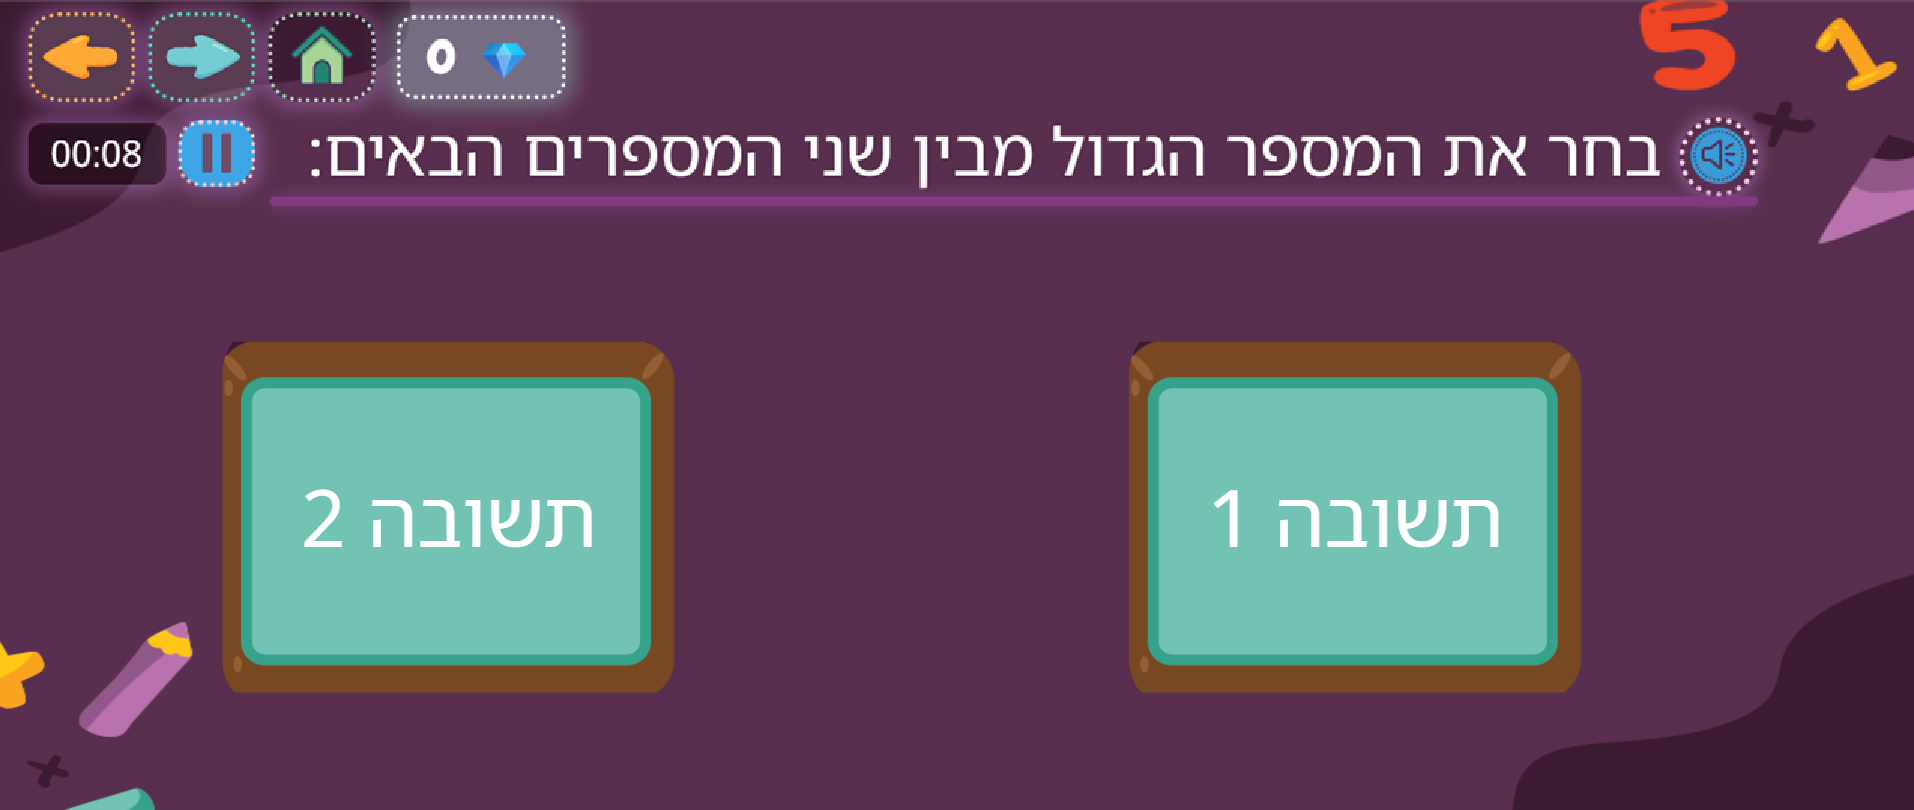
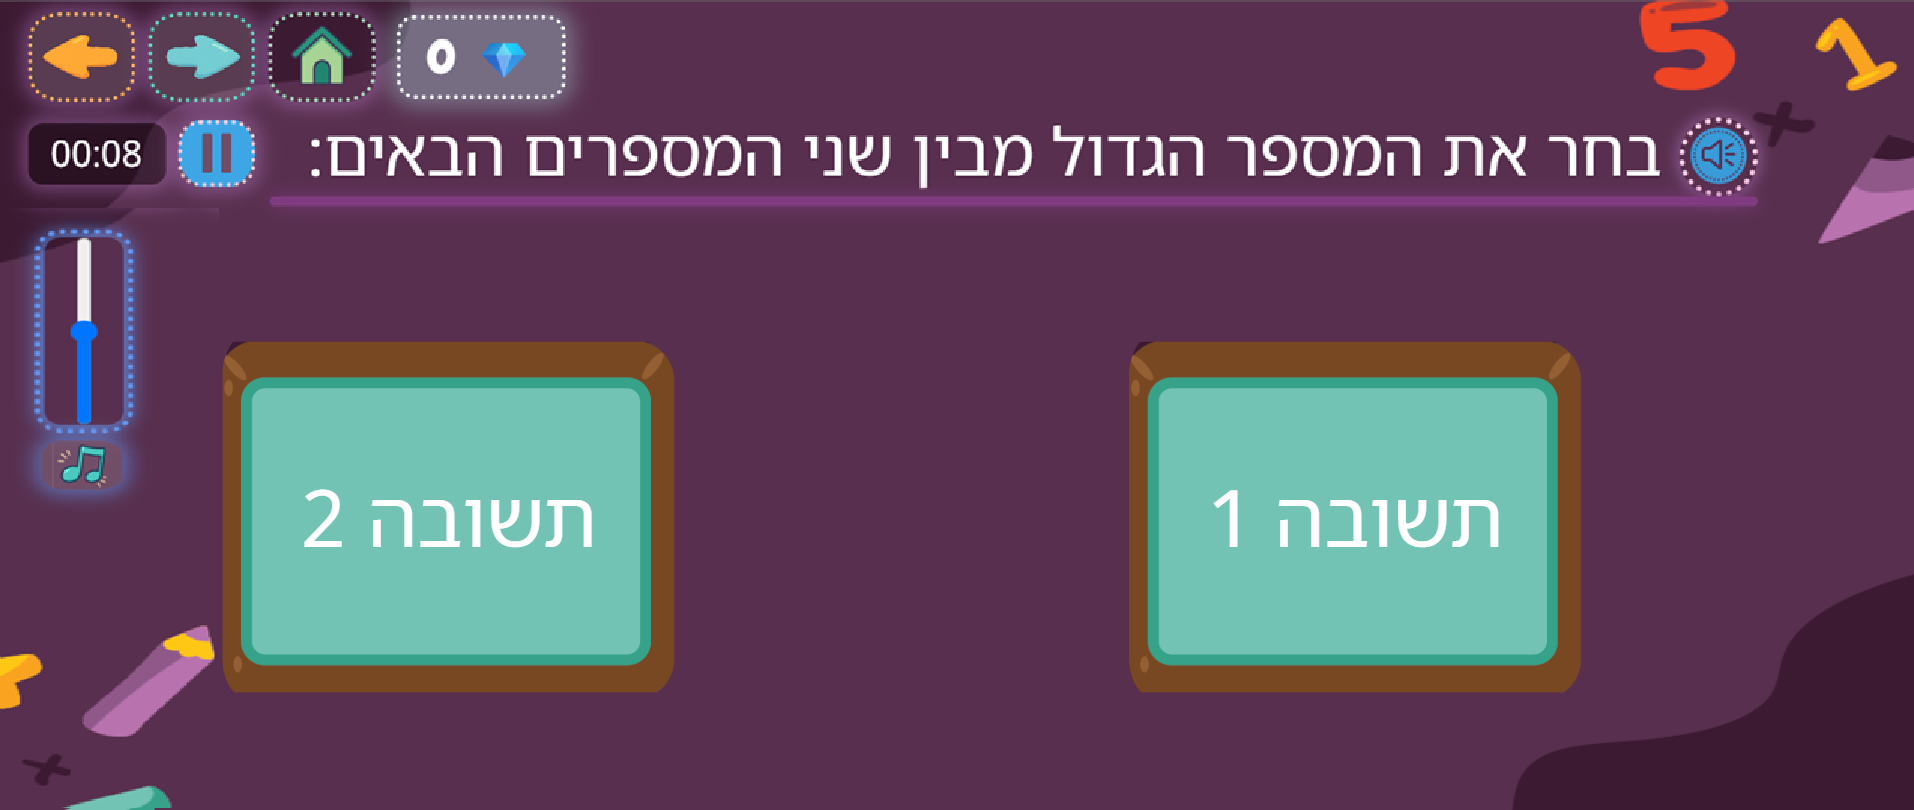
just need to implement all the audio instructions

Changed region(s): [[0.0, 0.2778, 0.0925, 0.6173], [0.0, 0.7716, 0.1233, 0.9259], [0.0308, 0.9568, 0.0925, 1.0]]

diff --git a/index.html b/index.html
@@ -58,7 +58,7 @@
 			</section>
 
 			<!-- Slide 2 index=1-->
-			<section class="Slide2">
+			<section class="Slide2" >
 				<div class="header delayed-p" style="width: 80%; display: flex; justify-content: center; margin-bottom: 30px; ">
 					<div onclick="playAudio('audio0')" class="audio-border" style="margin-left: 20px;">
 						<img src="Math-Project/audio-inst.png" class="audio-icon">
@@ -66,7 +66,7 @@
 
 
 					<div style="display: flex; align-items: center; gap: 50px; direction: rtl;">
-						<h3 class="glow-underline delayed-p" style="font-size: 70px; margin: 0; text-align: center;">
+						<h3 class="glow-underline delayed-p" style="font-size: 70px; font-family:'Chewy'; font-weight:bold; margin: 0; text-align: center;">
 							הוראות המשחק
 						</h3>
 					</div>
@@ -74,7 +74,7 @@
 				<audio id="audio0" src="Math-Project/audio-instrcts/game-inst.m4a"></audio>
 
 				<!-- Slide2 fragments-->
-				<ul class="delayed-p" style="text-align:right; animation-delay:2s;">
+				<ul class="delayed-p" style="text-align:right; animation-delay:2s;  line-height:1.5px;">
 					<li>
 						<div class="instruction-wrapper">
 							<div class="audio-border" onclick="playAudio('audio1')">
@@ -102,7 +102,7 @@
 					<!-- linked to slide3: index=2-->
 					<a onclick="playTapAndGo(2)"
 					   id="delayed-fragment"
-					   style=" display: flex; margin-top: 150px; margin-right: 250px; width: 400px; justify-content: center; text-align: center; cursor: pointer; ">
+					   style=" display: flex; margin-top: 100px; margin-right: 200px; width: 400px; justify-content: center; text-align: center; cursor: pointer; ">
 						לחץ כּאן כּדי להמשיך
 					</a>
 				</div>
@@ -1519,34 +1519,50 @@
 				</div>
 
 				<!-- Game Explanation -->
-				<div style="margin-top: 60px; font-size: 36px; color: white; font-weight: bold; text-align: right; margin-right: -30%; width:140%;">
-					◆  כאשר המשחק מתחיל: יוצג כפתור "הפסק" כדי לעצור את הטיימר
+				<div style="margin-top: 40px; font-size: 36px; color: white; font-weight: bold; text-align: right; margin-right: -30%; width:140%;">
+					<span style="color: limegreen; font-size: 40px; font-weight: bold; text-shadow: 0 0 8px rgba(50, 205, 50, 0.8), 0 0 14px rgba(0, 255, 0, 0.6);">◆ </span>
+					כאשר המשחק מתחיל: יוצג כפתור "הפסק" כדי לעצור את הטיימר
 				</div>
 
 				<!-- Timer Preview with Arrow -->
 				<div>
 					<div style="position: relative; height: 200px; margin-top: 20px;">
 						<img src="Math-Project/pointy-arrow-green.png" alt="arrow" style="position: absolute; top: -60%; left: 0%; height: 130px;  width:auto; transform: rotate(-120deg); z-index: 1;" />
-						<img src="Math-Project/timer-prev.png" alt="timer preview" style="position: absolute; top: -85%; left: -30%; height: 70px; border: 4px solid orange; border-radius: 4px; padding: 1px; box-shadow: 0 0 15px rgba(0,0,0,0.3);" />
+						<img src="Math-Project/timer-prev.png" alt="timer preview" style="position: absolute; top: -85%; left: -30%; height: 70px; border: 4px solid orange; border-radius: 4px; padding: 1px; box-shadow: 0 0 8px rgba(255, 165, 0, 0.8), 0 0 14px rgba(255, 140, 0, 0.9); " />
 					</div>
 				</div>
 
 				<div style="margin-top: -120px; font-size: 36px; font-weight: bold; color: white; text-align: right; margin-right: -30%; width: 140%;">
-					◆ ברגע שתלחץ על הכפתור, המשחק יתחיל וטיימר יופיע למעלה בצד ימין
+					<span style="color: orange; font-size: 40px; font-weight: bold; text-shadow: 0 0 8px rgba(255, 165, 0, 0.8),  0 0 14px rgba(255, 140, 0, 0.9);">◆ </span>
+					ברגע שתלחץ על הכפתור, המשחק יתחיל וטיימר יופיע למעלה בצד ימין
 				</div>
 
 				<!-- Pause Button Preview with Arrow -->
 				<div>
 					<div style="position: relative; height: 200px; margin-top: 20px;">
-						<img src="Math-Project/pointy-arrow.png" alt="arrow" style="position: absolute; top: -85%; left: -20%; height: 290px; transform: rotate(-115deg); z-index: 1;" />
-						<img src="Math-Project/pause-btn1.png" alt="pause button" style="position: absolute; top: -153%; left: -10%; height: 70px; border: 4px solid limegreen; border-radius:4px; padding:1px; box-shadow: 0 0 15px rgba(0,0,0,0.3);" />
+						<img src="Math-Project/pointy-arrow.png" alt="arrow" style="position: absolute; top: -85%; left: -15%; height: 290px; transform: rotate(-115deg); z-index: 1;" />
+						<img src="Math-Project/pause-btn1.png" alt="pause button" style="position: absolute; top: -155%; left: -10%; height: 70px; border: 4px solid limegreen; border-radius: 4px; padding: 1px; box-shadow: 0 0 8px rgba(50, 205, 50, 0.8), 0 0 14px rgba(0, 255, 0, 0.6)" />
+					</div>
+				</div>
+
+				<!-- music slider: -->
+				<div style="margin-top: -120px; font-size: 36px; font-weight: bold; color: white; text-align: right; margin-right: -30%; width: 140%;">
+					<span style="color:cornflowerblue; font-size:40px; font-weight:bold; text-shadow: 0 0 8px rgba(100, 149, 237, 0.8), 0 0 14px rgba(100, 149, 237, 0.9);">◆</span> 
+					בנוסף תופעל מוזיקה ויוצג כפתור להגברת ולהנמכת הקול 
+				</div>
+
+				<!-- volume slider Preview with Arrow -->
+				<div>
+					<div style="position: relative; height: 200px; margin-top: 20px; text-shadow: 0 0 8px rgba(100, 149, 237, 0.8), 0 0 14px rgba(100, 149, 237, 0.9);">
+						<img src="Math-Project/pointy-arrow-blue.png" alt="arrow" style="position: absolute; top: -65%; left: -15%; height: 290px; transform: rotate(-20deg); z-index: 1;" />
+						<img src="Math-Project/music-slider.png" alt="pause button" style="z-index: 2; position: absolute; top: -145%; left: -30%; height: 270px; width: 120px; border: 4px solid; border-color: cornflowerblue; border-radius: 4px; padding: 1px; box-shadow: 0 0 8px rgba(100, 149, 237, 0.8), 0 0 14px rgba(100, 149, 237, 0.9); " />
 					</div>
 				</div>
 
 				<!-- Start Game Button -->
-				<div style="margin-top: -100px;">
-					<a class="special-button" onclick="playTapAndGo(27)"
-					   style=" color: whitesmoke; font-weight: bold; background: linear-gradient(135deg, #FAD2CF, #F9AFAE); box-shadow: 0 0 20px rgba(255, 170, 170, 0.5), 0 0 40px rgba(255, 140, 180, 0.4); ">
+				<div style="margin-top: -150px;">
+					<a class="special-button" onclick="playTapAndGo(28)"
+					   style=" color: whitesmoke; font-weight: bold; background: linear-gradient(135deg, #A9C9C9, #7FBFBF); box-shadow: 0 0 20px rgba(95, 158, 160, 0.5), 0 0 40px rgba(95, 158, 160, 0.4); ">
 						להתחיל את המשחק<br>לחץ כאן
 					</a>
 				</div>
@@ -1555,22 +1571,26 @@
 
 
 			<!-- start of the game, using shuffle between slides. number of questions=13-->
-			<section dir="rtl" style="padding: 30px; font-family: 'chewy', Arial; background-color: rgba(30, 30, 30, 0.4); backdrop-filter: blur(12px); -webkit-backdrop-filter: blur(12px); text-align: center; ">
+			<section dir="rtl" style="padding: 20px; font-family: 'chewy', Arial; background-color: rgba(30, 30, 30, 0.4); backdrop-filter: blur(12px); -webkit-backdrop-filter: blur(12px); text-align: center; ">
 
 				<!-- Reminder Message -->
-				<div style="background-color: cadetblue; color: white; font-size: 40px; font-weight: bold; padding: 25px 40px; border-radius: 25px; border: 16px solid #5b3e1b; width: fit-content; margin: auto; box-shadow: 0 0 25px rgba(0,0,0,0.3);">
+				<div style="background-color: cadetblue; color: white; font-size: 40px; font-weight: bold; padding: 20px 40px; border-radius: 25px; border: 16px solid #5b3e1b; width: fit-content; margin: auto; box-shadow: 0 0 25px rgba(0,0,0,0.3);">
 					מה יהיה  במשחק?
 				</div>
 				<!-- Instructional Note -->
-				<div style="margin-top: 10x; font-size: 28px; color: whitesmoke; font-weight: bold; max-width: 800px; margin-inline: auto; line-height: 1.6;">
+				<div style="margin-top: 10px; font-size: 28px; color: whitesmoke; font-weight: bold; max-width: 800px; margin-inline: auto; line-height: 1.2;">
 					<span style="color:goldenrod;">◆</span> במשחק יהיה שאלות כמו בהדרכה <span style="color:lightcoral; text-decoration:underline;">  אבל</span> הפעם לא יהיו הסברים   !<br>
 					<span style="color:goldenrod;">◆</span> על כל תשובה נכונה תקבל נקודות <span class="sparkle-gem" style="font-size:55px;">💎</span><br>
-					<span style="color:cadetblue; letter-spacing:1.2px; font-weight:bold; font-size:35px;"> בהצלחה!</span>
+				   <span style="color:cornflowerblue; font-size:40px; font-weight:bold; text-shadow: 0 0 8px rgba(100, 149, 237, 0.8), 0 0 14px rgba(100, 149, 237, 0.4);"> בהצלחה!</span>
 				</div>
 				<!-- Screenshot Preview -->
-				<div style="margin-top:10px; font-size:36px; ">
-					לדוגמה: <br />
-					<img src="Math-Project/quest-review.png" alt="reminder screenshot" style="max-width: 85%; border-radius: 20px; box-shadow: 0 0 25px rgba(0,0,0,0.3); border: 5px solid; border-color: yellowgreen; ">
+				<div style="position: relative; margin-top: 5px; font-size: 36px; display: inline-block;">
+
+					<!-- Label on top-right corner -->
+					<span style="position: absolute; top: 10px; right: -9%; background-color: rgb(204, 196, 130); box-shadow: 0 0 25px rgba(238, 232, 170, 0.6); padding: 5px 10px; border-radius: 8px; font-weight: bold; color: white; ">
+						לדוגמה:
+					</span>
+					<img src="Math-Project/quest-review.png" alt="reminder screenshot" style="max-width: 85%; border-radius: 20px; box-shadow: 0 0 25px rgba(0,0,0,0.3); border: 5px solid; border-color: palegoldenrod; ">
 				</div>
 
 
@@ -1581,11 +1601,11 @@
 				</div>
 				<div class="click-to-continue delayed-p"
 					 data-fragment-index="8"
-					 style="position: absolute; top: 12%; left: -20%; width: 140px; height: 140px; animation-delay: 1.9s;">
+					 style="position: absolute; top: 12%; left: -22%; width: 140px; height: 140px; animation-delay: 1.9s;">
 
-					<img src="Math-Project/pointy-arrow-green.png"
+					<img src="Math-Project/pointy-arrow-pink.png"
 						 alt="Arrow"
-						 style="width: 100%; height: 100%; transform: scaleX(-1) rotate(-70deg);">
+						 style="width: 100%; height: 100%; transform: scaleX(1) rotate(-20deg);">
 				</div>
 			</section>
 
@@ -2099,7 +2119,7 @@
 		<a onclick="goHome()" class="nav-arrow home-button hover-sound" id="home-btn"></a>
 		<a id="music-toggle"
 		   class="nav-arrow music-toggle"
-		   style="display: none; background-image: url('Math-Project/mute-music.png'); width: 10px; height: 10px;"
+		   style="display: none; background-image: url('Math-Project/unmute-music.png'); width: 10px; height: 10px;"
 		   title="השתק מוזיקה">
 		</a>
 		<!--slider element-->

diff --git a/main.js b/main.js
@@ -5,6 +5,8 @@ let correctStreak = 0;  //variable for streak points (3 or mores corrects answwe
 let musicPlaying = false;
 const bgMusic = document.getElementById('bg-music');
 const musicBtn = document.getElementById('music-toggle');
+let lastVolume = 0.3; // Default volume to restore on unmute
+
 
 
 //detect when the slide becomes visible and trigger animation with delay
@@ -582,11 +584,27 @@ function showGameUI() {
 		pause.style.opacity = '1';
 		points.style.opacity = '1';
 	}, 50);
+
 	// Auto-play music on first entry
 	if (!musicPlaying) {
-		bgMusic.play().catch(() => { }); // autoplay-safe
+		bgMusic.volume = 0; // start muted
+		bgMusic.play().then(() => {
+			let v = 0;
+			const fadeIn = setInterval(() => {
+				v += 0.05;
+				if (v >= lastVolume) {
+					bgMusic.volume = lastVolume;
+					clearInterval(fadeIn);
+				} else {
+					bgMusic.volume = v;
+				}
+			}, 10);
+		}).catch(() => {
+			// autoplay blocked — ignore
+		});
 		musicPlaying = true;
 	}
+
 	musicBtn.style.display = 'block';
 	setTimeout(() => {
 		musicBtn.style.opacity = '1';
@@ -619,20 +637,42 @@ function hideGameUI() {
 
 //Toggle Button Logic
 musicBtn.addEventListener('click', () => {
-	if (bgMusic.paused) {
-		bgMusic.play().catch(() => { });
+	if (bgMusic.volume > 0) {
+		// Mute: store current volume and set to 0
+		lastVolume = bgMusic.volume;
+		bgMusic.volume = 0;
+		volumeSlider.value = 0;
 		musicBtn.style.backgroundImage = "url('Math-Project/mute-music.png')";
 	} else {
-		bgMusic.pause();
+		// 🔊 Unmute: restore previous volume
+		bgMusic.volume = lastVolume;
+		volumeSlider.value = lastVolume;
 		musicBtn.style.backgroundImage = "url('Math-Project/unmute-music.png')";
 	}
 });
 
+
+
 //slider control:
 const volumeSlider = document.getElementById('volume-slider');
 volumeSlider.addEventListener('input', () => {
-	bgMusic.volume = parseFloat(volumeSlider.value);
+	const vol = parseFloat(volumeSlider.value);
+	bgMusic.volume = vol;
+
+	volumeSlider.addEventListener('input', () => {
+		const vol = parseFloat(volumeSlider.value);
+		bgMusic.volume = vol;
+
+		if (vol > 0) {
+			lastVolume = vol; // Save last non-zero volume
+			musicBtn.style.backgroundImage = "url('Math-Project/unmute-music.png')";
+		} else {
+			musicBtn.style.backgroundImage = "url('Math-Project/mute-music.png')";
+		}
+	});
+
 });
+
 
 
 // Shuffle only once when the DOM is ready (before Reveal.initialize)
@@ -697,3 +737,13 @@ Reveal.on('slidechanged', (event) => {
 		setTimeout(() => current.classList.remove('fade-in'), 700); // Reset
 	}
 });
+
+Reveal.on('slidechanged', (event) => {
+	document.querySelectorAll('audio').forEach(audio => {
+		if (audio.id !== 'bg-music') {
+			audio.pause();
+			audio.currentTime = 0;
+		}
+	});
+});
+

diff --git a/dist/theme/custom.css b/dist/theme/custom.css
@@ -276,7 +276,7 @@ body {
              }
       /* When paused, show the play triangle image instead */
             .pause-button.playing {
-                 background-image: url('../../Math-Project/resume-btn-green.png'); /* your triangle image */
+                 background-image: url('../../Math-Project/resume-btn-green.png'); /*triangle image */
                  background-repeat: no-repeat;
                  background-position: center;
                  background-size: 132%
@@ -293,12 +293,12 @@ body {
 
 
 .music-toggle {
-    left: 27px; /* Position near the nav arrows */
+    left: 30px; /* Position near the nav arrows */
     top: 290px;
     background-size: contain;
     background-repeat: no-repeat;
     background-position: center;
-    border: 3px dotted #FFC0CB; /* or any color like cadetblue */
+    box-shadow: 0 0 12px 4px rgba(100, 149, 237, 0.6); /* cornflowerblue glow */
 }
 
 
@@ -310,10 +310,11 @@ body {
     background: transparent;
     appearance: auto; /* keep native look */
     border: none; /* let the browser render the slider */
-    outline: 3px dotted #ffb6c1; /* tightly hugging dotted frame */
+    outline: 3.5px dotted; /* tightly hugging dotted frame */
+    outline-color: cornflowerblue;
     outline-offset: 2px; /* optional: pull border in or out */
     border-radius: 10px;
-    box-shadow: none;
+    box-shadow: 0 0 12px 4px rgba(100, 149, 237, 0.8); /* cornflowerblue glow */
     cursor: pointer;
     position: fixed;
     left: -13px;
